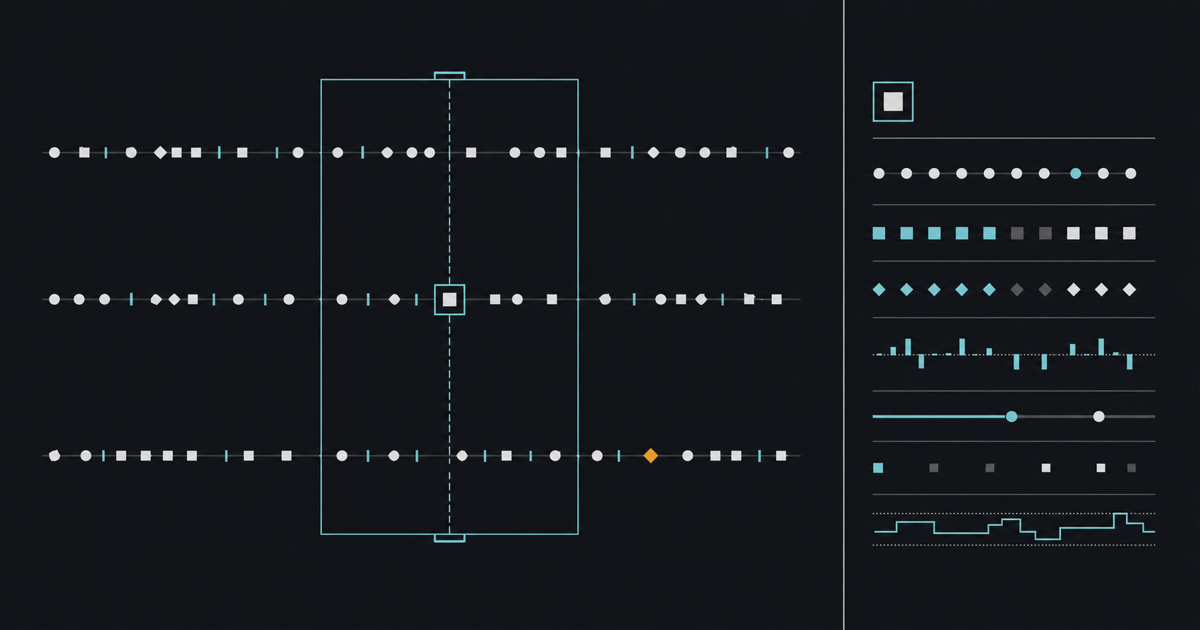
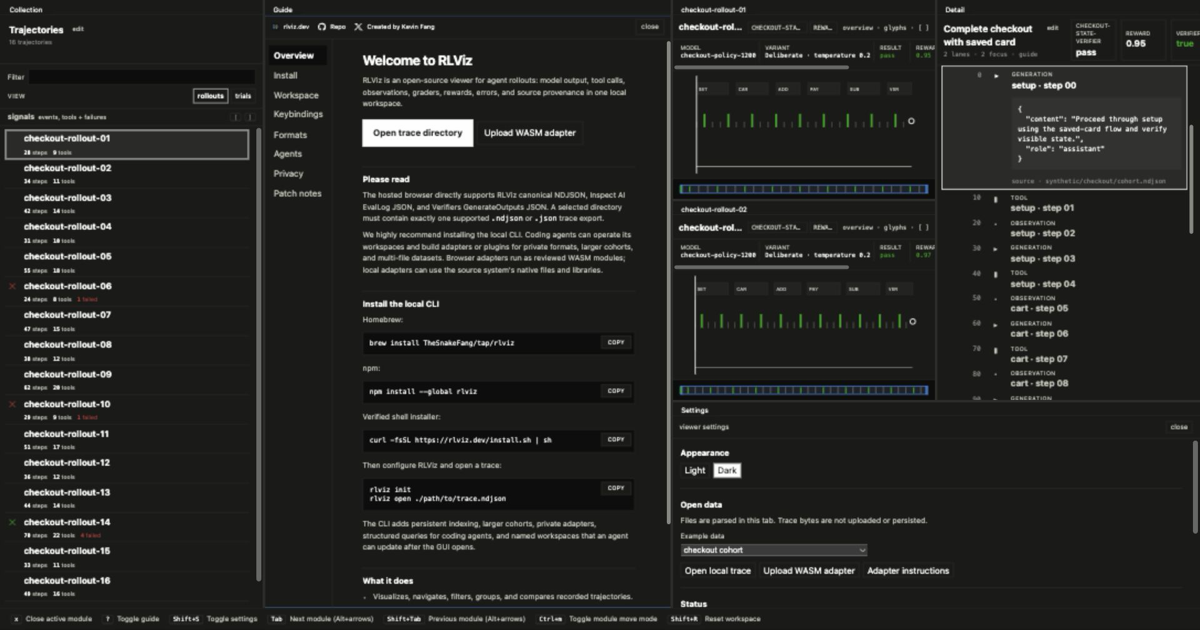
Refresh social preview and README

diff --git a/web/index.html b/web/index.html
@@ -11,15 +11,15 @@
     <meta property="og:title" content="RLViz — inspect agent rollouts locally" />
     <meta property="og:description" content="Navigate events, compare trajectories, and trace failures without uploading your data." />
     <meta property="og:url" content="https://rlviz.dev/" />
-    <meta property="og:image" content="https://rlviz.dev/rlviz-social.png" />
+    <meta property="og:image" content="https://rlviz.dev/rlviz-social.png?v=2" />
     <meta property="og:image:width" content="1200" />
     <meta property="og:image:height" content="630" />
-    <meta property="og:image:alt" content="Three agent trajectory timelines with a selected viewport and event detail panel" />
+    <meta property="og:image:alt" content="RLViz workspace with a trajectory collection, guide, rollout timelines, detail panel, settings, and keyboard shortcuts" />
     <meta name="twitter:card" content="summary_large_image" />
     <meta name="twitter:title" content="RLViz — inspect agent rollouts locally" />
     <meta name="twitter:description" content="Navigate events, compare trajectories, and trace failures without uploading your data." />
-    <meta name="twitter:image" content="https://rlviz.dev/rlviz-social.png" />
-    <meta name="twitter:image:alt" content="Three agent trajectory timelines with a selected viewport and event detail panel" />
+    <meta name="twitter:image" content="https://rlviz.dev/rlviz-social.png?v=2" />
+    <meta name="twitter:image:alt" content="RLViz workspace with a trajectory collection, guide, rollout timelines, detail panel, settings, and keyboard shortcuts" />
     <link rel="canonical" href="https://rlviz.dev/" />
     <link rel="icon" href="/favicon.svg" type="image/svg+xml" />
     <title>RLViz — inspect agent rollouts locally</title>

diff --git a/webapp/index.html b/webapp/index.html
@@ -11,15 +11,15 @@
     <meta property="og:title" content="RLViz — inspect agent rollouts locally" />
     <meta property="og:description" content="Navigate events, compare trajectories, and trace failures without uploading your data." />
     <meta property="og:url" content="https://rlviz.dev/" />
-    <meta property="og:image" content="https://rlviz.dev/rlviz-social.png" />
+    <meta property="og:image" content="https://rlviz.dev/rlviz-social.png?v=2" />
     <meta property="og:image:width" content="1200" />
     <meta property="og:image:height" content="630" />
-    <meta property="og:image:alt" content="Three agent trajectory timelines with a selected viewport and event detail panel" />
+    <meta property="og:image:alt" content="RLViz workspace with a trajectory collection, guide, rollout timelines, detail panel, settings, and keyboard shortcuts" />
     <meta name="twitter:card" content="summary_large_image" />
     <meta name="twitter:title" content="RLViz — inspect agent rollouts locally" />
     <meta name="twitter:description" content="Navigate events, compare trajectories, and trace failures without uploading your data." />
-    <meta name="twitter:image" content="https://rlviz.dev/rlviz-social.png" />
-    <meta name="twitter:image:alt" content="Three agent trajectory timelines with a selected viewport and event detail panel" />
+    <meta name="twitter:image" content="https://rlviz.dev/rlviz-social.png?v=2" />
+    <meta name="twitter:image:alt" content="RLViz workspace with a trajectory collection, guide, rollout timelines, detail panel, settings, and keyboard shortcuts" />
     <link rel="canonical" href="https://rlviz.dev/" />
     <link rel="icon" href="/favicon.svg" type="image/svg+xml" />
     <title>RLViz — inspect agent rollouts locally</title>

diff --git a/cmd/sitegen/main.go b/cmd/sitegen/main.go
@@ -150,7 +150,7 @@ func layout(current page, body string) string {
 	title := current.Title + " · RLViz"
 	canonical := siteURL + "/" + current.Output
 	description := html.EscapeString(current.Description)
-	return "<!doctype html><html lang=\"en\"><head><meta charset=\"utf-8\"><meta name=\"viewport\" content=\"width=device-width,initial-scale=1\"><meta name=\"color-scheme\" content=\"dark\"><meta name=\"theme-color\" content=\"#111519\"><meta name=\"description\" content=\"" + description + "\"><meta property=\"og:type\" content=\"article\"><meta property=\"og:site_name\" content=\"RLViz\"><meta property=\"og:title\" content=\"" + html.EscapeString(title) + "\"><meta property=\"og:description\" content=\"" + description + "\"><meta property=\"og:url\" content=\"" + canonical + "\"><meta property=\"og:image\" content=\"" + siteURL + "/rlviz-social.png\"><meta property=\"og:image:width\" content=\"1200\"><meta property=\"og:image:height\" content=\"630\"><meta property=\"og:image:alt\" content=\"Three agent trajectory timelines with a selected viewport and event detail panel\"><meta name=\"twitter:card\" content=\"summary_large_image\"><meta name=\"twitter:title\" content=\"" + html.EscapeString(title) + "\"><meta name=\"twitter:description\" content=\"" + description + "\"><meta name=\"twitter:image\" content=\"" + siteURL + "/rlviz-social.png\"><meta name=\"twitter:image:alt\" content=\"Three agent trajectory timelines with a selected viewport and event detail panel\"><link rel=\"canonical\" href=\"" + canonical + "\"><link rel=\"icon\" href=\"/favicon.svg\" type=\"image/svg+xml\"><title>" + html.EscapeString(title) + "</title><link rel=\"stylesheet\" href=\"/style.css\"></head><body><aside><a class=\"brand\" href=\"/\"><b>RLViz</b></a><nav>" + navigation.String() + "</nav><footer>local-first · source-read-only</footer></aside><main>" + body + "</main></body></html>"
+	return "<!doctype html><html lang=\"en\"><head><meta charset=\"utf-8\"><meta name=\"viewport\" content=\"width=device-width,initial-scale=1\"><meta name=\"color-scheme\" content=\"dark\"><meta name=\"theme-color\" content=\"#111519\"><meta name=\"description\" content=\"" + description + "\"><meta property=\"og:type\" content=\"article\"><meta property=\"og:site_name\" content=\"RLViz\"><meta property=\"og:title\" content=\"" + html.EscapeString(title) + "\"><meta property=\"og:description\" content=\"" + description + "\"><meta property=\"og:url\" content=\"" + canonical + "\"><meta property=\"og:image\" content=\"" + siteURL + "/rlviz-social.png?v=2\"><meta property=\"og:image:width\" content=\"1200\"><meta property=\"og:image:height\" content=\"630\"><meta property=\"og:image:alt\" content=\"RLViz workspace with a trajectory collection, guide, rollout timelines, detail panel, settings, and keyboard shortcuts\"><meta name=\"twitter:card\" content=\"summary_large_image\"><meta name=\"twitter:title\" content=\"" + html.EscapeString(title) + "\"><meta name=\"twitter:description\" content=\"" + description + "\"><meta name=\"twitter:image\" content=\"" + siteURL + "/rlviz-social.png?v=2\"><meta name=\"twitter:image:alt\" content=\"RLViz workspace with a trajectory collection, guide, rollout timelines, detail panel, settings, and keyboard shortcuts\"><link rel=\"canonical\" href=\"" + canonical + "\"><link rel=\"icon\" href=\"/favicon.svg\" type=\"image/svg+xml\"><title>" + html.EscapeString(title) + "</title><link rel=\"stylesheet\" href=\"/style.css\"></head><body><aside><a class=\"brand\" href=\"/\"><b>RLViz</b></a><nav>" + navigation.String() + "</nav><footer>local-first · source-read-only</footer></aside><main>" + body + "</main></body></html>"
 }
 
 func markdown(source []byte) string {

diff --git a/cmd/sitegen/main_test.go b/cmd/sitegen/main_test.go
@@ -80,7 +80,7 @@ func TestLayoutIncludesPublicMetadata(t *testing.T) {
 	for _, want := range []string{
 		`<link rel="canonical" href="https://rlviz.dev/docs.html">`,
 		`<link rel="icon" href="/favicon.svg" type="image/svg+xml">`,
-		`<meta property="og:image" content="https://rlviz.dev/rlviz-social.png">`,
+		`<meta property="og:image" content="https://rlviz.dev/rlviz-social.png?v=2">`,
 		`<meta name="twitter:card" content="summary_large_image">`,
 	} {
 		if !strings.Contains(document, want) {

diff --git a/README.md b/README.md
@@ -1,10 +1,17 @@
 # RLViz
 
+[![CI](https://github.com/TheSnakeFang/rlviz/actions/workflows/ci.yml/badge.svg)](https://github.com/TheSnakeFang/rlviz/actions/workflows/ci.yml)
+[![Release](https://img.shields.io/github/v/release/TheSnakeFang/rlviz)](https://github.com/TheSnakeFang/rlviz/releases/latest)
+[![npm](https://img.shields.io/npm/v/rlviz)](https://www.npmjs.com/package/rlviz)
+[![License](https://img.shields.io/github/license/TheSnakeFang/rlviz)](LICENSE)
+
 Inspect agent rollouts locally.
 
 RLViz opens existing agent traces in a keyboard-first viewer. Read each model,
 tool, environment, grader, and artifact event; compare trajectories; and trace
 normalized data back to its raw source record. The source is never modified.
+
+![RLViz default workspace](webapp/public/rlviz-social.png)
 
 Open a supported file directly at [rlviz.dev](https://rlviz.dev). Parsing and
 indexing stay in the browser tab. Use the CLI for larger traces, growing files,